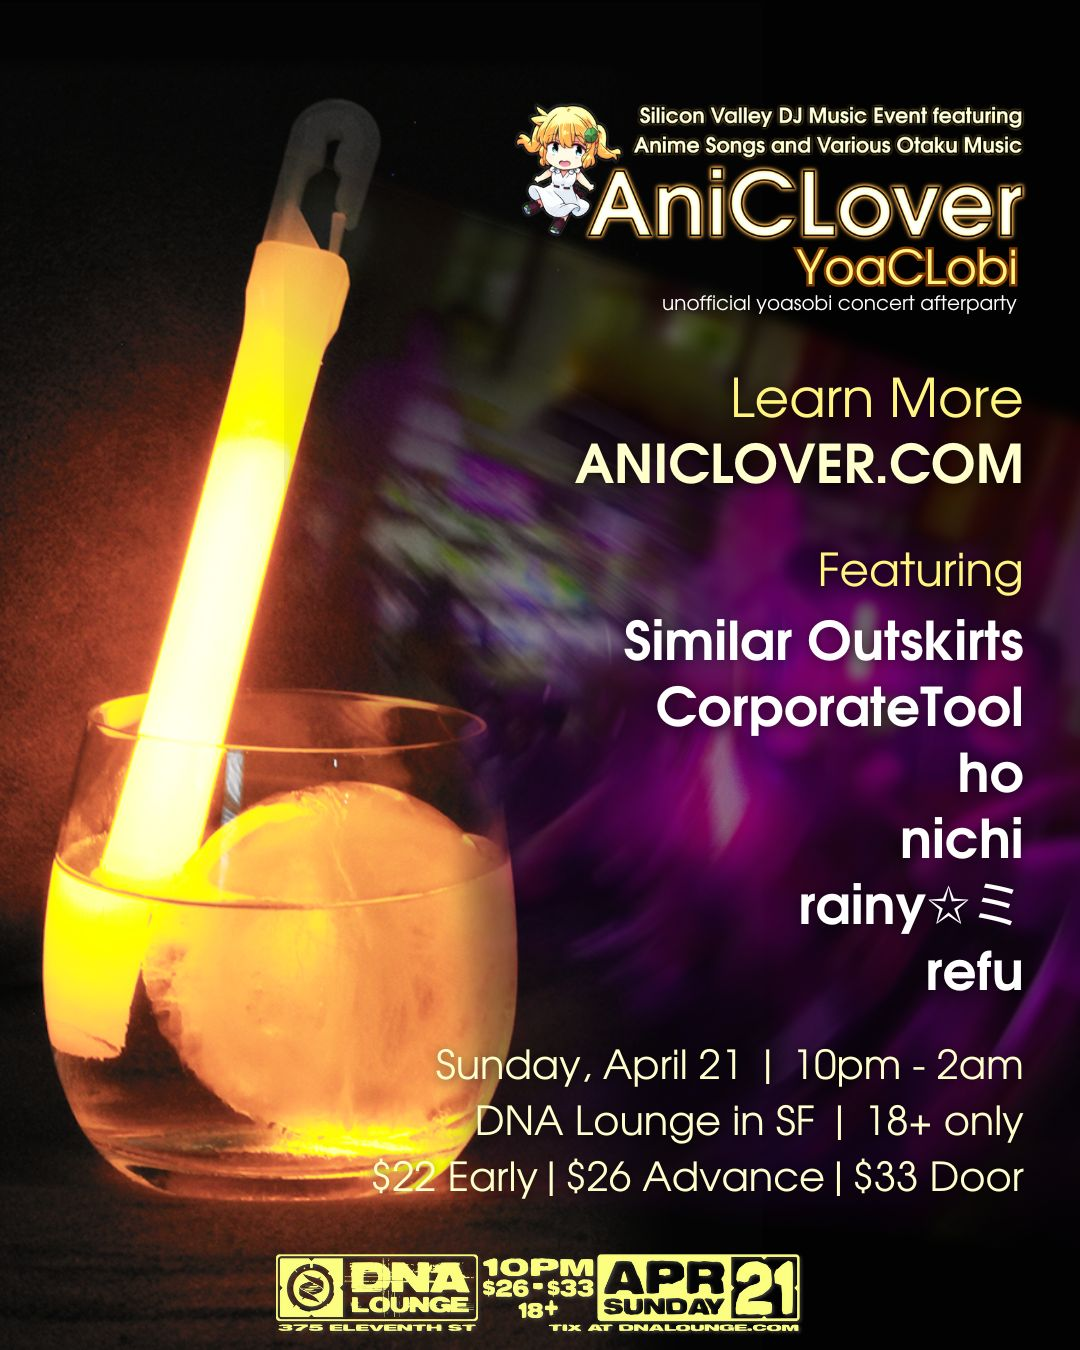
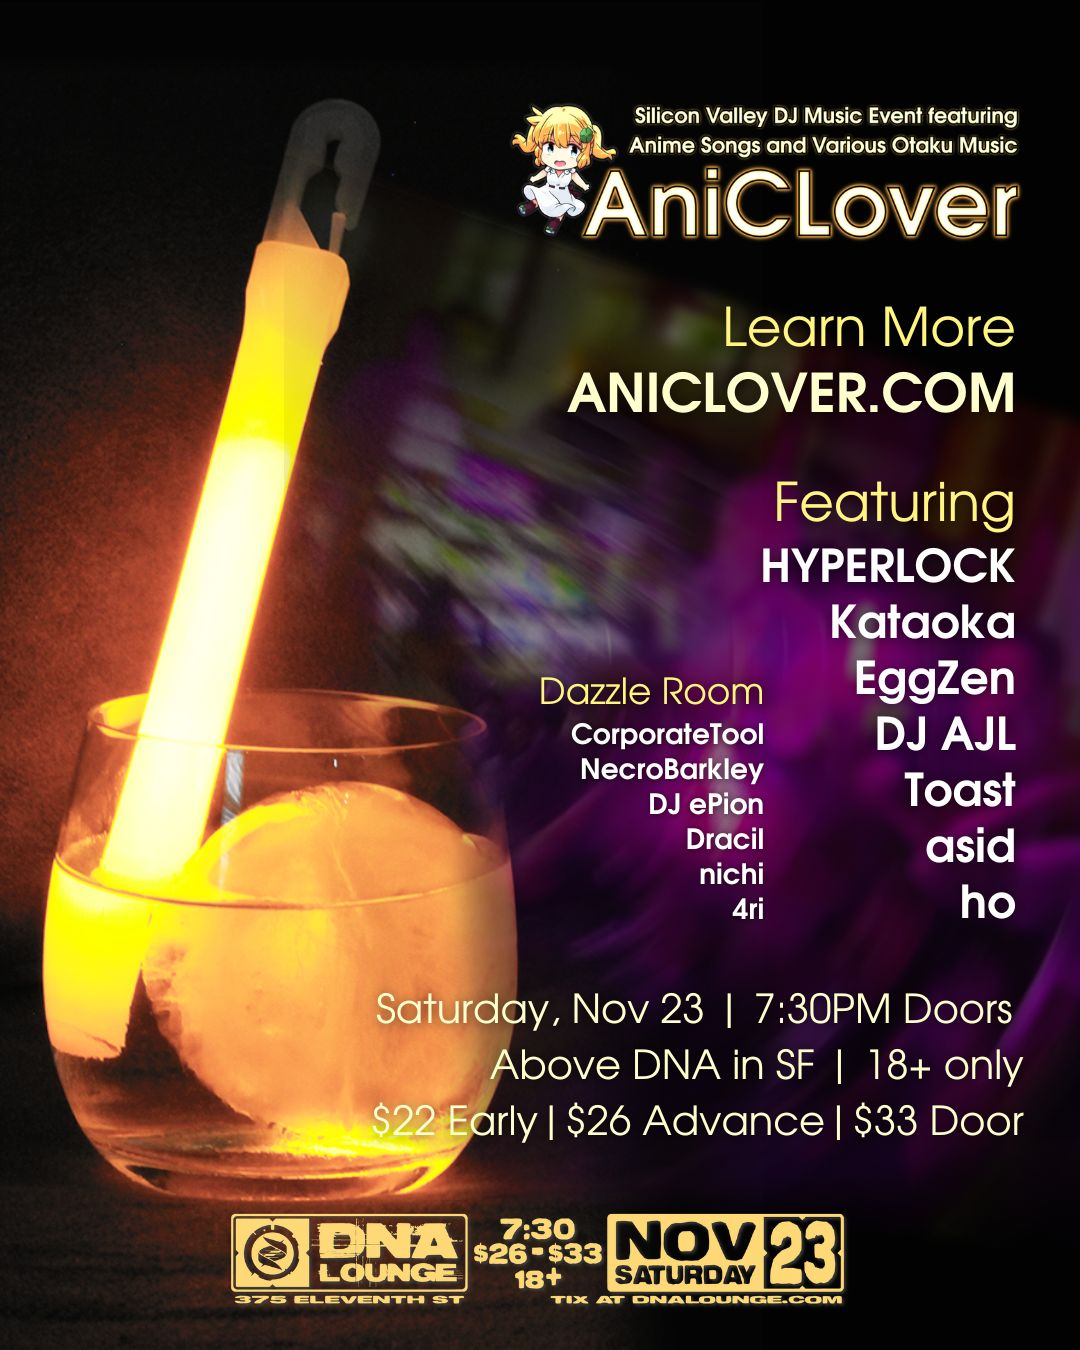
DNA november

Changed region(s): [[0.2139, 0.0622, 0.9472, 0.9956]]

diff --git a/dna-ticket-info.html b/dna-ticket-info.html
@@ -2,21 +2,21 @@
 <html lang="en">
 
 <head>
-    <title>Tickets - AniCLover: Spooky Roast | Oct 26 in Fremont@ DNA Lounge</title>
-    <meta property="og:url" content ="https://givebutter.com/cGQJN0"/>
+    <title>AniCLover @ DNA Lounge | Saturday, November 23</title>
+    <meta property="og:url" content ="https://aniclover.com/dna-ticket-info"/>
     <meta property="og:title" content="AniCLover"/>
-    <meta property="og:description" content="YoaCLobi @ DNA Lounge - Sunday, April 21"/>
+    <meta property="og:description" content="AniCLover @ DNA Lounge | Saturday, November 23"/>
     <!-- <meta property="og:image" content="https://aniclover.com/assets/anicloverbanner1500x500.png" /> -->
-    <meta property="og:image" content="https://aniclover.com/assets/2024-10 Announcement 45.jpg"/>
+    <meta property="og:image" content="https://aniclover.com/assets/DNA Announcement 45.jpg"/>
 
     <meta name="twitter:card" content="summary_large_image"/>
     <meta name="twitter:site" content="@aniclover"/>
-    <meta name="twitter:title" content="YoaCLobi @ DNA Lounge - Sunday, April 21"/>
+    <meta name="twitter:title" content="AniCLover @ DNA Lounge | Saturday, November 23"/>
     <meta name="twitter:description" content="AniCLover: Spooky Roast | Oct 26 in Fremont- Silicon Valley DJ music event featuring anime songs and various otaku music"/>
     <!-- <meta name="twitter:image" content="https://aniclover.com/assets/anicloverbanner1500x500.png"/> -->
-    <meta name="twitter:image" content="https://aniclover.com/assets/2024-10 Announcement 45.jpg"/>
+    <meta name="twitter:image" content="https://aniclover.com/assets/DNA Announcement 45.jpg"/>
 
-    <meta name="keywords" content="anime AniCLover: Spooky Roast | Oct 26 in Fremontdj vocaloid anisong anison event ticket tickets registration anikura silicon valley san francisco bay area san jose"/>
+    <meta name="keywords" content="anime aniclover dj vocaloid anisong anison event ticket tickets registration anikura silicon valley san francisco bay area san jose"/>
 
     <meta name="facebook-domain-verification" content="yyek588vi70zbr06qn5gdy1c3i8knv" />
 
@@ -326,8 +326,8 @@ In your html page, add the snippet and call gtag_report_conversion when someone 
       <div class="tickets row">
           <p>
             <div class="horiz-center">
-              <h1>AniCLover: YoaCLobi @ DNA Lounge</h1>
-              Sunday, April 21 | 10:00PM Start
+              <h1>AniCLover @ DNA Lounge</h1>
+              Saturday, Nov 23 | 7:30PM Doors
             </div>
           </p>
 
@@ -335,7 +335,7 @@ In your html page, add the snippet and call gtag_report_conversion when someone 
             <div class="sticky-top">
               <dl class="row">
                 <dt class="col-4">Early</dt>
-                <dd class="col-8"><del>$22 (limited qty)</del></dd>
+                <dd class="col-8">$22 (limited qty)</dd>
 
                 <dt class="col-4">Advance</dt>
                 <dd class="col-8">$26</dd>
@@ -344,7 +344,7 @@ In your html page, add the snippet and call gtag_report_conversion when someone 
                 <dd class="col-8">$33</dd>
               </dl>
               <form id="ticket-form" name="buy" action="https://www.dnalounge.com/order/" method="POST">
-                <input type="HIDDEN" name="item" value="66301">
+                <input type="HIDDEN" name="item" value="67067">
               </form>
 
               <button class="btn btn-danger btn-lg btn-block w-100" type="button" data-bs-toggle="modal" data-bs-target="#MLModal">
@@ -362,30 +362,23 @@ In your html page, add the snippet and call gtag_report_conversion when someone 
           <div class="col-xs-12 col-lg-9">
               <p>
                   <a href="https://aniclover.com/direct">
-                      <img class="img-fluid" src="./assets/2024-10 Announcement 45.jpg" alt="AniCLover: Spooky Roast | Oct 26 in Fremont@ DNA Lounge Apr 21">
+                      <img class="img-fluid" src="./assets/DNA Announcement 45.jpg" alt="AniCLover: Spooky Roast | Oct 26 in Fremont@ DNA Lounge Apr 21">
                   </a>
               </p>
               <p>
-                  Are you going to see YOASOBI in San Francisco? Or maybe you couldn't get tickets?
-                  Either way, join us at the DNA Lounge for an afterparty where we'll celebrate everything YOASOBI, plus J-Pop,
-                  Utaite, Vocaloid, and anisong remixes in honor of Ayase and Ikura's past and current projects!
+                  AniCLover is back from a blowout show in Tokyo with our first two-room show at the DNA Lounge!
+                  Join us for all all-star lineup of DJs spinning the best in anime songs, remixes, and otaku music!
               </p>
-              <p>Cosplay is welcome!</p>
               <p>
-                Featuring DJs:
-                <ul>
-                  <li>Similar Outskirts</li>
-                  <li>CorporateTool</li>
-                  <li>ho</li>
-                  <li>nichi</li>
-                  <li>rainy☆ミ</li>
-                  <li>refu</li>
-                </ul>
+                We've reloaded our crates with fresh music and we've got an all-new Dazzle Room wotagei
+                block, so don't miss the excitement as we bring the Tokyo anikura experience right here to the Bay Area!
               </p>
+              <p>Club-friendly cosplay is welcome!</p>
+
               <p>
                   DNA Lounge in San Francisco<br>
-                  Sunday, April 21, 2024<br>
-                  10pm - 2am<br>
+                  Saturday, November 23, 2024<br>
+                  7:30pm - 1:00am<br>
                   18+ only
               </p>
           </div>
